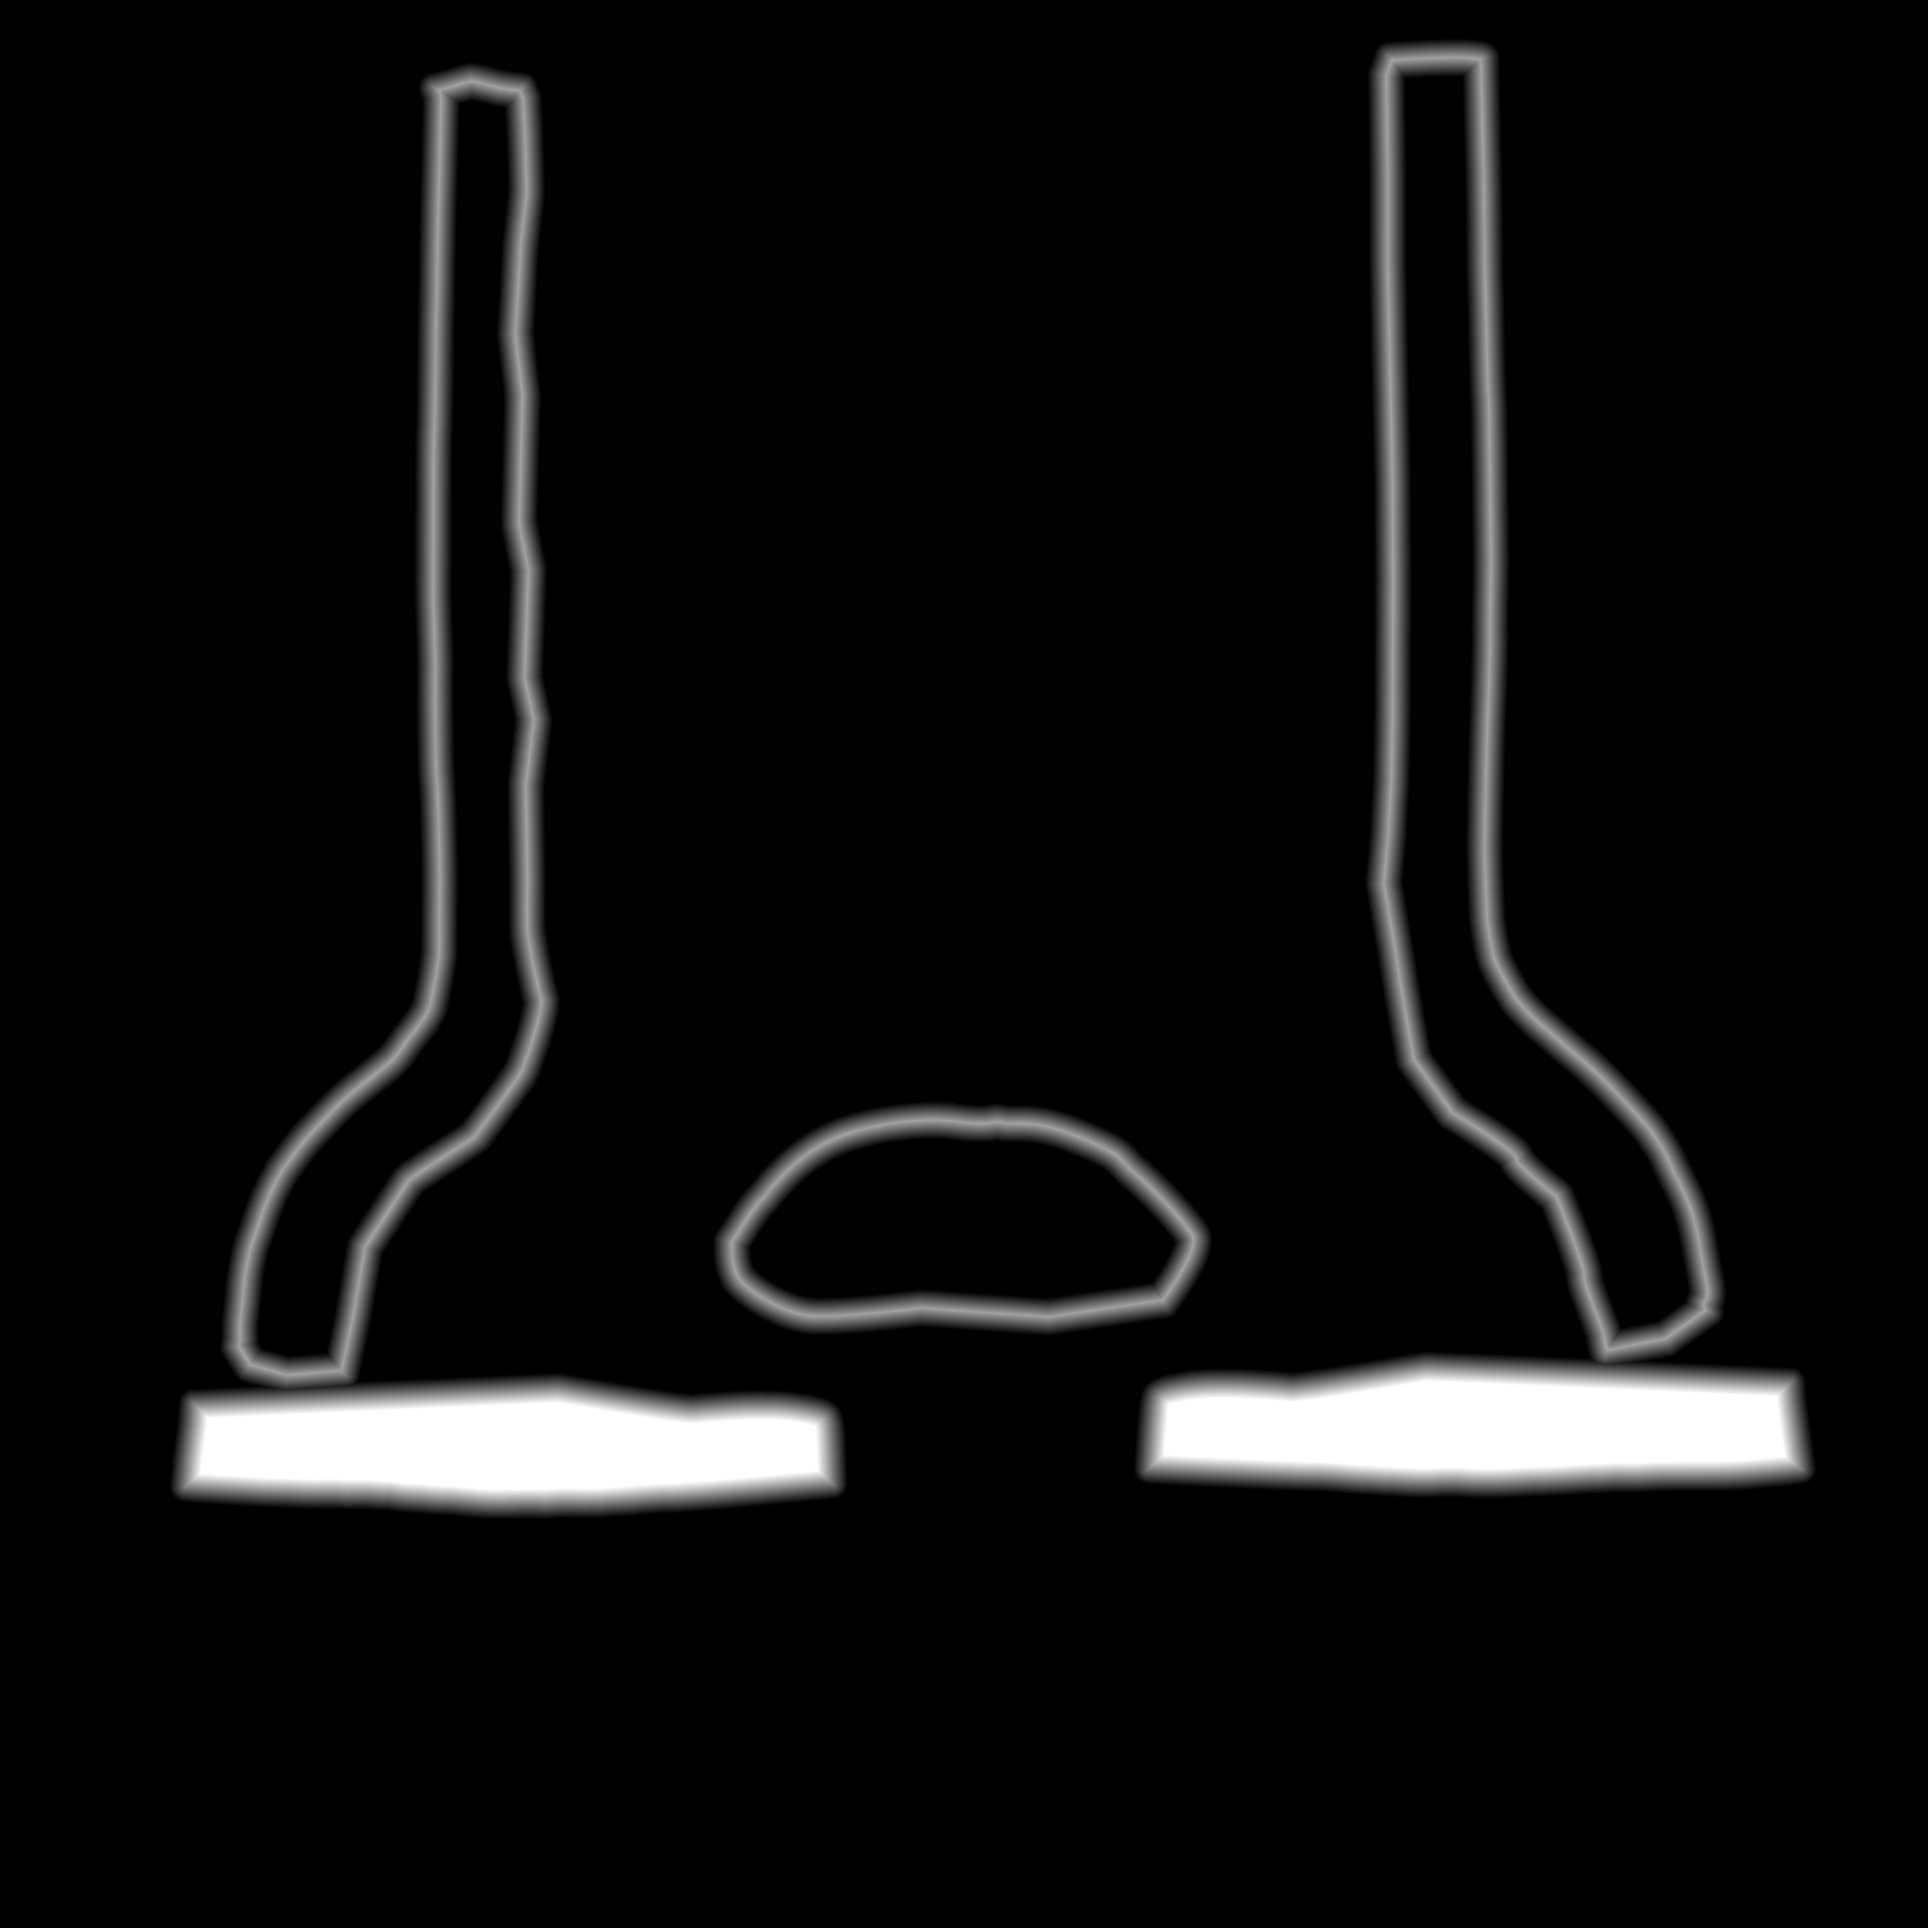
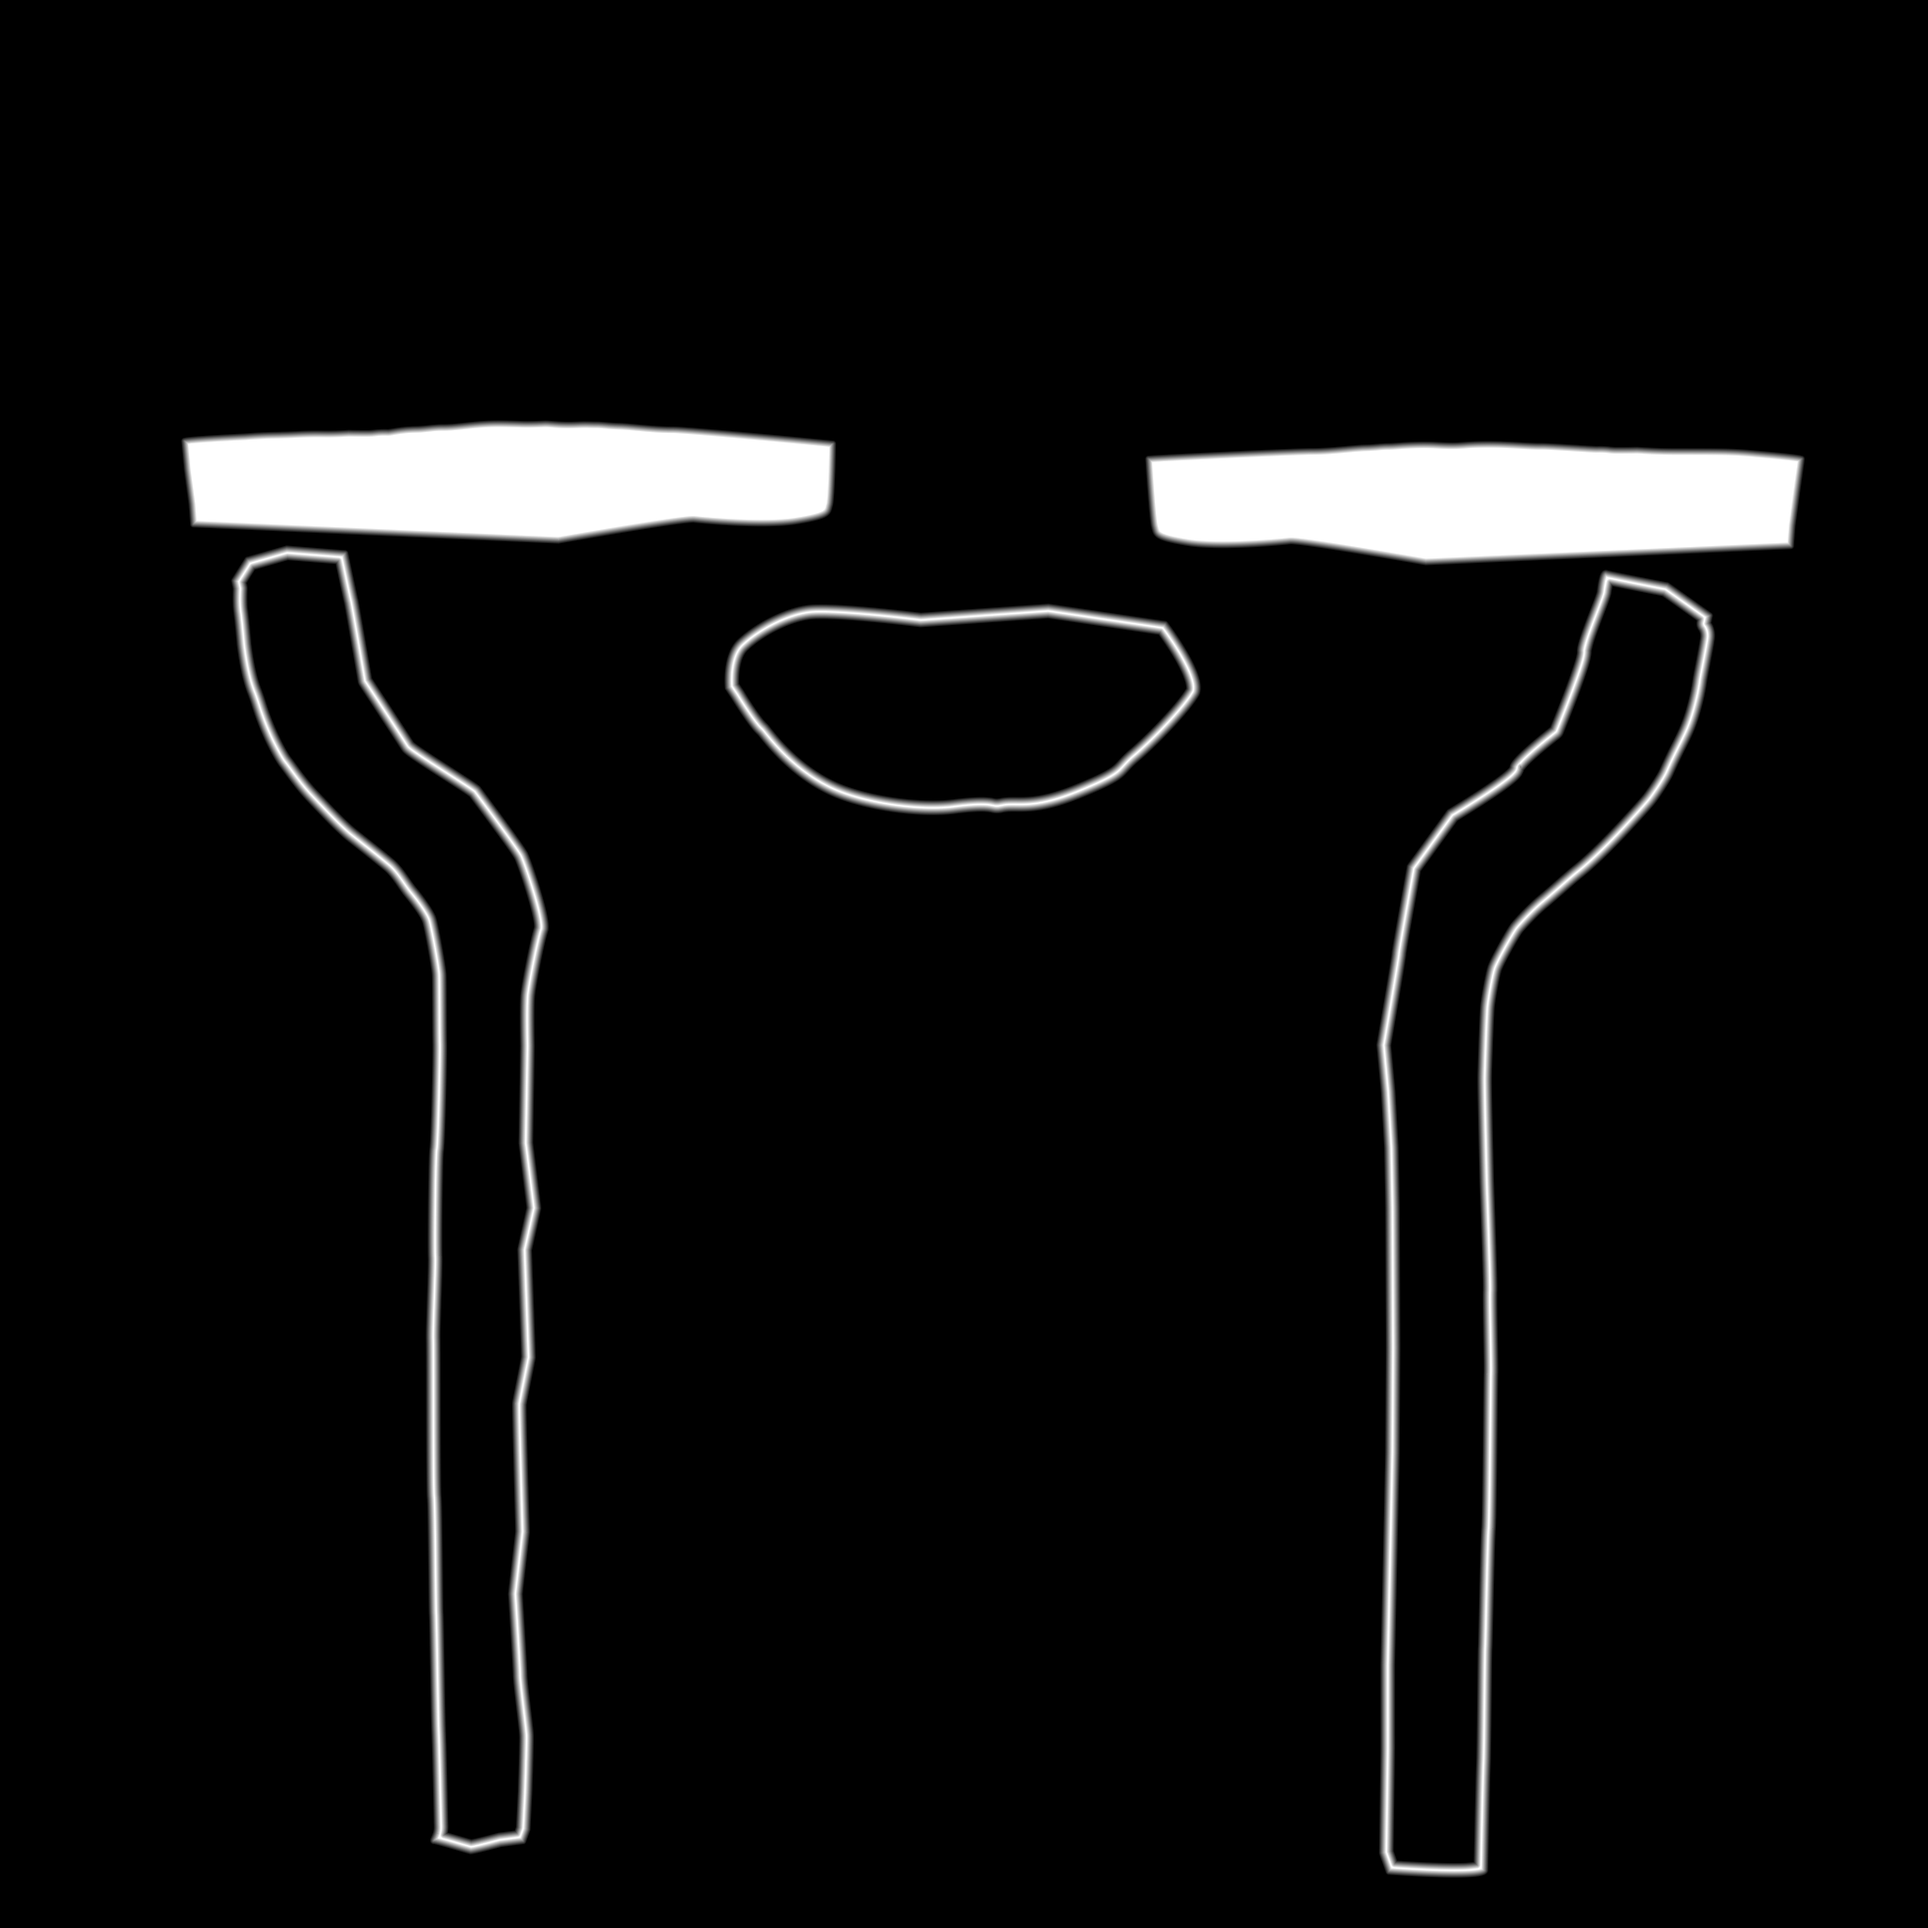
feat(viewer): implement advanced UV-space SDF blending logic and update assets to include AO maps and refined detail tiling

diff --git a/src/viewer.tsx b/src/viewer.tsx
@@ -254,7 +254,7 @@ uniform float tintRatio;
                 uniform sampler2D pointerLUT;
                 uniform sampler2D paletteLUT;
                 uniform sampler2D sdfTex;
-                uniform sampler2D idTex; // <--- NEW: ID Map sampler
+                uniform sampler2D idTex; 
 
                 int decodeIndex(vec4 c) { return int(c.r * 255.0 + 0.5); }
 
@@ -305,69 +305,69 @@ uniform float tintRatio;
                 #endif
             `;
 
-            // --- REWRITTEN: Now reads from idTex instead of albedoSampler, and uses Multiply mix ---
             const updateAlbedoGLSL = `
 #ifdef COLOR_SWAP
 if (u_enableSdf > 0.5) {
-  // 1. Read directly from the ID map using the safe vMainUV1 coordinate
-  vec3 idColor = srgbToLinear(texture2D(idTex, vMainUV1).rgb);
+  // --- ADVANCED UV-SPACE SDF LOGIC ---
+  float sd = texture2D(sdfTex, vMainUV1).r;
+  float texel = 1.0 / 2048.0;
 
-  // 2. Find the zone
-  int z = findZone(idColor);
-  vec3 targetColor = zoneToPalette(z);
+  // 1. Calculate TRUE gradient purely in UV Space 
+  // We sample the SDF at an offset to see which way the "hill" goes
+  float sdU = texture2D(sdfTex, vMainUV1 + vec2(texel, 0.0)).r;
+  float sdV = texture2D(sdfTex, vMainUV1 + vec2(0.0, texel)).r;
   
-  // 3. MULTIPLY SWAP: preserve detail map variation
-  surfaceAlbedo.rgb *= targetColor;
+  vec2 uvGrad = vec2(sdU - sd, sdV - sd);
+  float glen = max(length(uvGrad), 1e-6);
+  vec2 uvDir = uvGrad / glen; 
+
+  // 2. Calculate dynamic step size based on screen fwidth
+  float screenPx = max(fwidth(vMainUV1.x) + fwidth(vMainUV1.y), 1e-5);
+  float minStep = texel * 1.5; 
+  float samplingStep = max(screenPx, minStep); 
+
+  // 3. Step INWARD and OUTWARD along the gradient to find the two zones
+  vec2 duv = uvDir * samplingStep;
+  vec3 idIn  = srgbToLinear(texture2D(idTex, vMainUV1 + duv).rgb);
+  vec3 idOut = srgbToLinear(texture2D(idTex, vMainUV1 - duv).rgb);
+
+  vec3 palIn  = zoneToPalette(findZone(idIn));
+  vec3 palOut = zoneToPalette(findZone(idOut));
+
+  // 4. Smoothstep blend based on the SDF value (0.5 is the edge)
+  float sd_fwidth = fwidth(sd);
+  float wMin = 0.8 * screenPx; 
+  float w    = max(max(sd_fwidth * blendStrength, 1e-6), wMin);
+  float t = smoothstep(0.5 - blendRadius * w, 0.5 + blendRadius * w, sd);
+  
+  // 5. Apply the swapped color to the Albedo (Multiply for wood/leather detail)
+  surfaceAlbedo.rgb *= mix(palOut, palIn, t);
 
 } else {
+  // --- HIGH QUALITY FALLBACK (4-TAP GAUSSIAN BLUR) ---
   vec3  id0 = srgbToLinear(texture2D(idTex, vMainUV1).rgb);
   float L0  = dot(id0, vec3(0.299, 0.587, 0.114));
   vec2  g   = vec2(dFdx(L0), dFdy(L0));
   float glen = max(length(g), 1e-6);
   vec2  dir  = g / glen;
 
-  float fp = max(fwidth(vMainUV1.x) + fwidth(vMainUV1.y), 1e-5);
-  vec2  duv = dir * fp;
+  float screenFp = max(fwidth(vMainUV1.x) + fwidth(vMainUV1.y), 1e-5);
+  float minFp = (1.0 / 2048.0) * 1.5;
+  float samplingFp = max(screenFp, minFp);
+  
+  vec2  duv = dir * samplingFp;
 
-  vec2 off0 = -1.5 * duv;
-  vec2 off1 = -0.5 * duv;
-  vec2 off2 =  0.5 * duv;
-  vec2 off3 =  1.5 * duv;
+  vec3 idS0 = srgbToLinear(texture2D(idTex, vMainUV1 - 1.5 * duv).rgb);
+  vec3 idS1 = srgbToLinear(texture2D(idTex, vMainUV1 - 0.5 * duv).rgb);
+  vec3 idS2 = srgbToLinear(texture2D(idTex, vMainUV1 + 0.5 * duv).rgb);
+  vec3 idS3 = srgbToLinear(texture2D(idTex, vMainUV1 + 1.5 * duv).rgb);
 
-  float w0 = 0.2;
-  float w1 = 0.3;
-  float w2 = 0.3;
-  float w3 = 0.2;
+  vec3 accum = (zoneToPalette(findZone(idS0)) * 0.2) +
+               (zoneToPalette(findZone(idS1)) * 0.3) +
+               (zoneToPalette(findZone(idS2)) * 0.3) +
+               (zoneToPalette(findZone(idS3)) * 0.2);
 
-  vec3 accum = vec3(0.0);
-  float sumw = 0.0;
-
-  vec3 idS0 = srgbToLinear(texture2D(idTex, vMainUV1 + off0).rgb);
-  int  z0   = findZone(idS0);
-  vec3 pal0 = zoneToPalette(z0);
-  accum += pal0 * w0;
-  sumw  += w0;
-
-  vec3 idS1 = srgbToLinear(texture2D(idTex, vMainUV1 + off1).rgb);
-  int  z1   = findZone(idS1);
-  vec3 pal1 = zoneToPalette(z1);
-  accum += pal1 * w1;
-  sumw  += w1;
-
-  vec3 idS2 = srgbToLinear(texture2D(idTex, vMainUV1 + off2).rgb);
-  int  z2   = findZone(idS2);
-  vec3 pal2 = zoneToPalette(z2);
-  accum += pal2 * w2;
-  sumw  += w2;
-
-  vec3 idS3 = srgbToLinear(texture2D(idTex, vMainUV1 + off3).rgb);
-  int  z3   = findZone(idS3);
-  vec3 pal3 = zoneToPalette(z3);
-  accum += pal3 * w3;
-  sumw  += w3;
-
-  // MULTIPLY SWAP: preserve detail map variation
-  surfaceAlbedo.rgb *= accum / sumw;
+  surfaceAlbedo.rgb *= accum;
 }
 #endif
 `;
@@ -547,8 +547,8 @@ hemiLight.intensity = 0.8;
         colorIdTexture.hasAlpha = false;
 
         const detailTexture = new Texture(`${rootUrl}details.png`, this.scene);
-        detailTexture.uScale = 6;  // Tiles the pattern 3 times horizontally
-        detailTexture.vScale = 6;  // Tiles the pattern 3 times vertically
+        detailTexture.uScale = 10;  // Tiles the pattern 3 times horizontally
+        detailTexture.vScale = 10;  // Tiles the pattern 3 times vertically
         
         material.detailMap.isEnabled = true;
         material.detailMap.texture = detailTexture;
